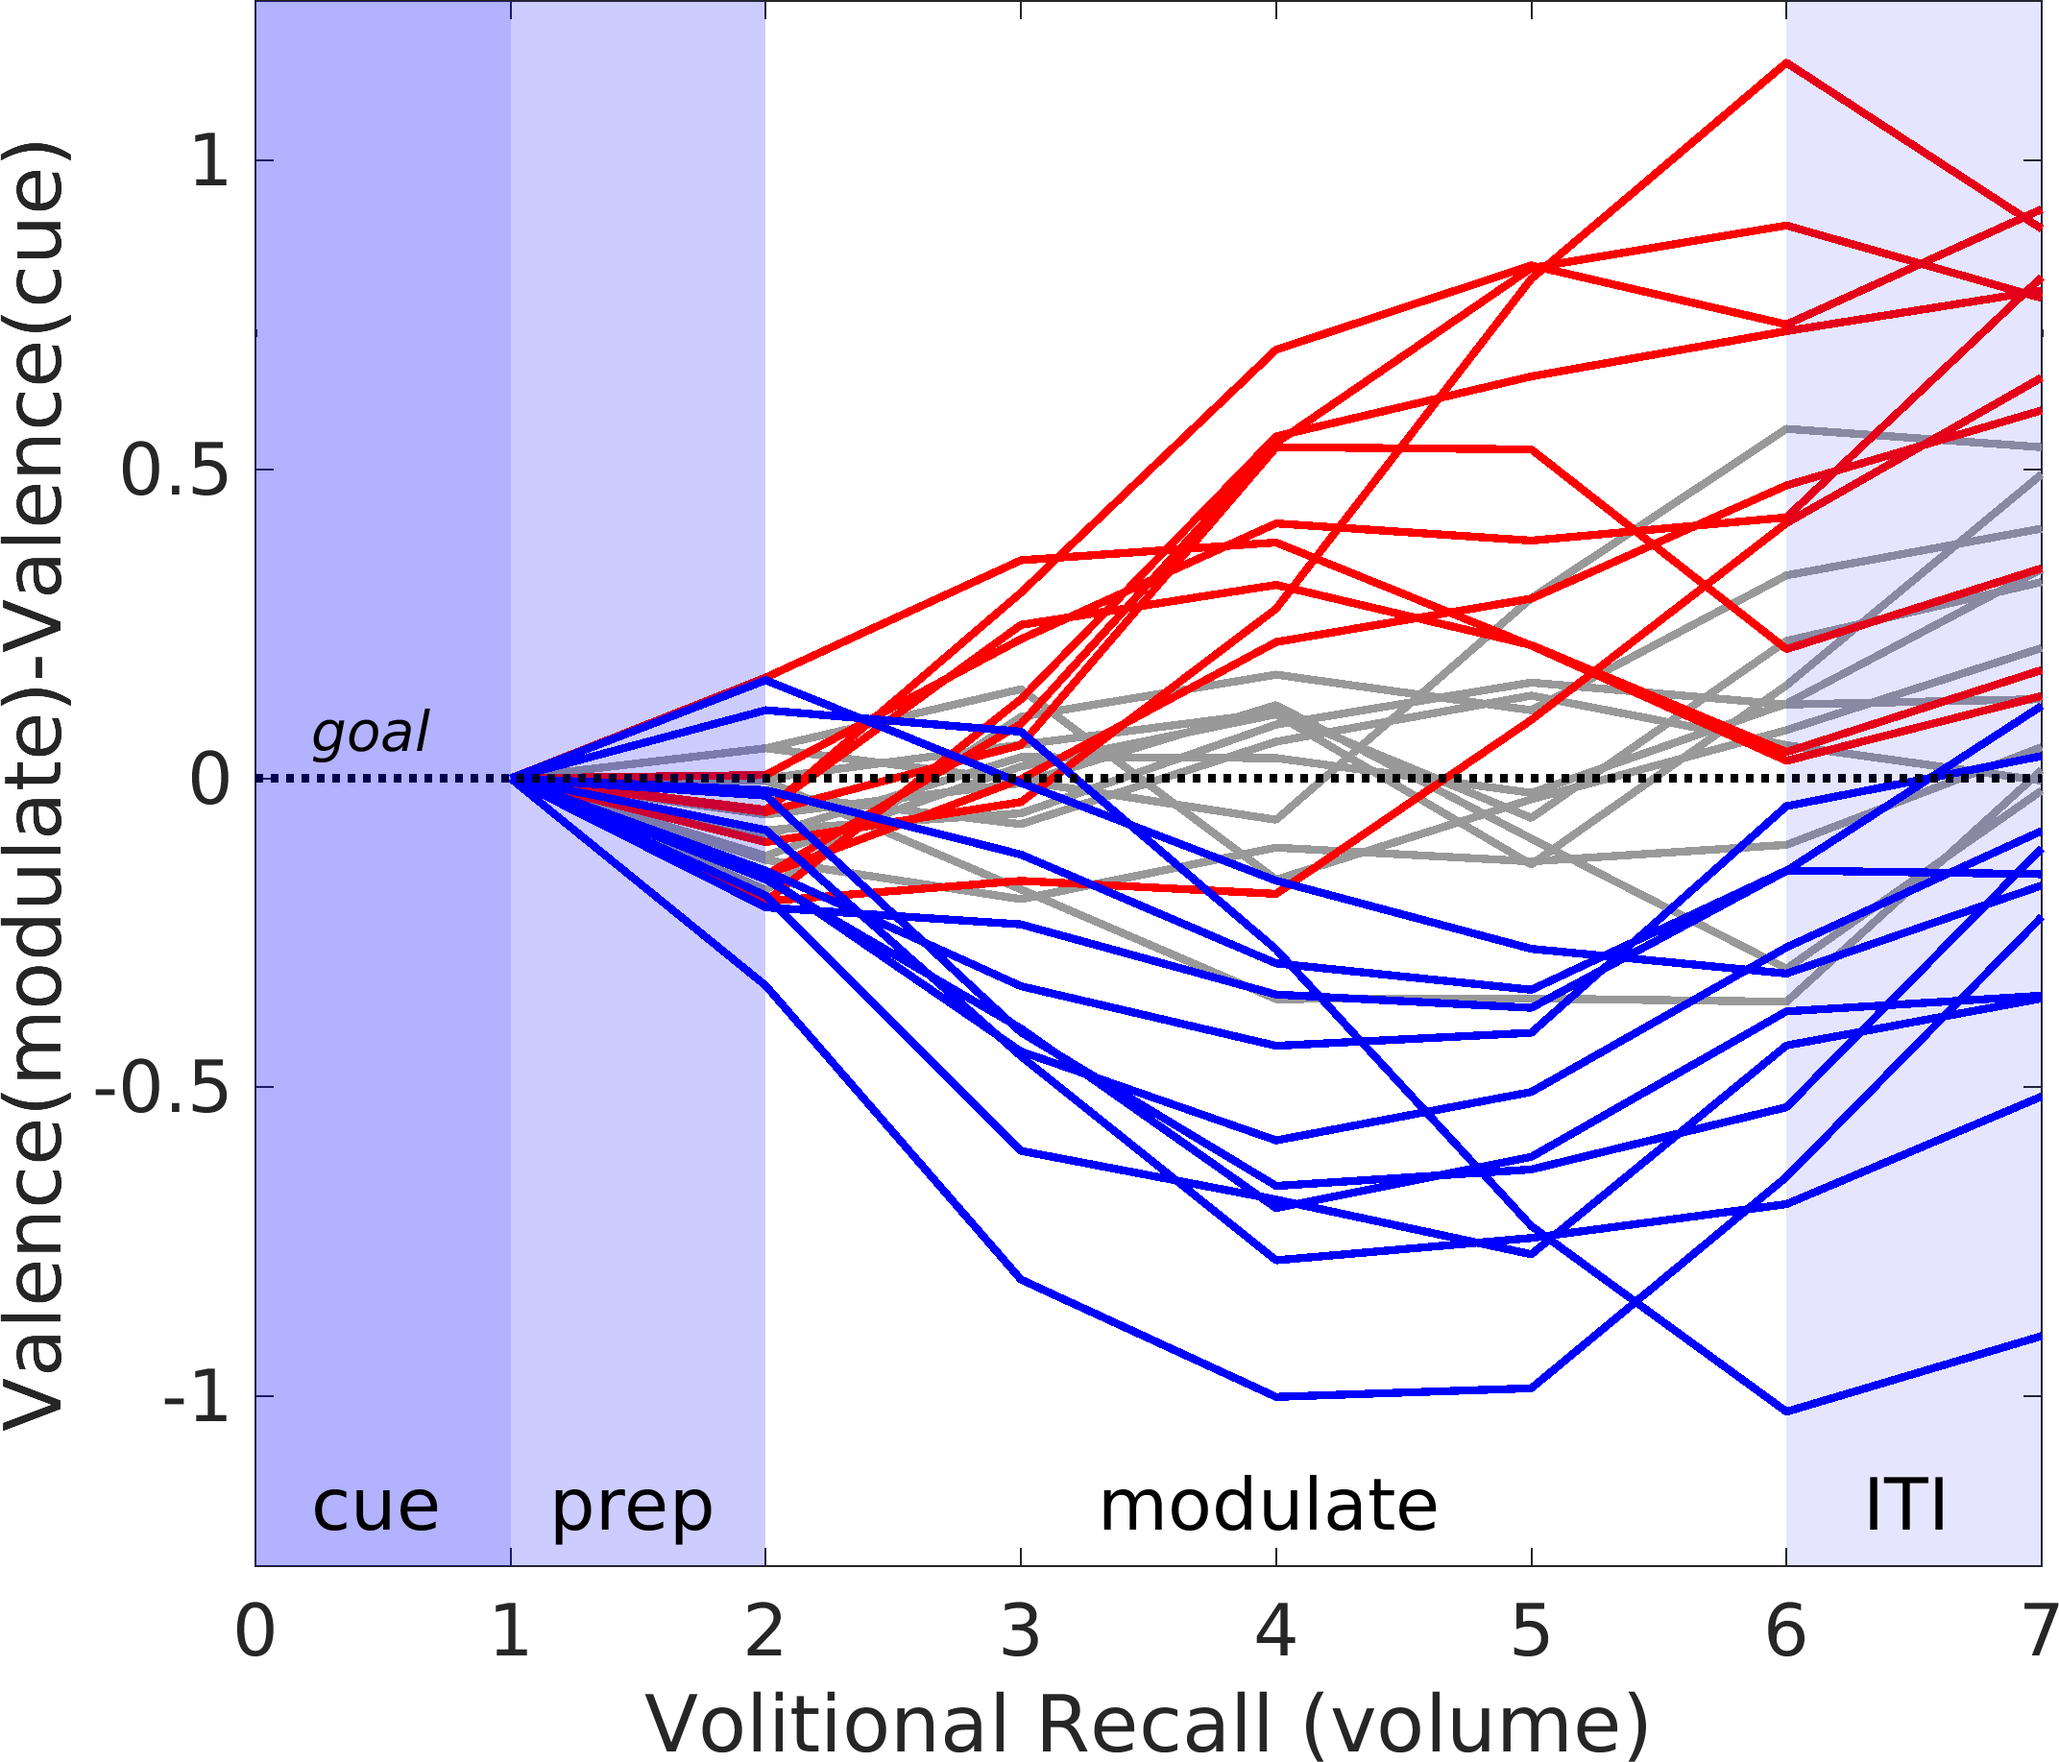
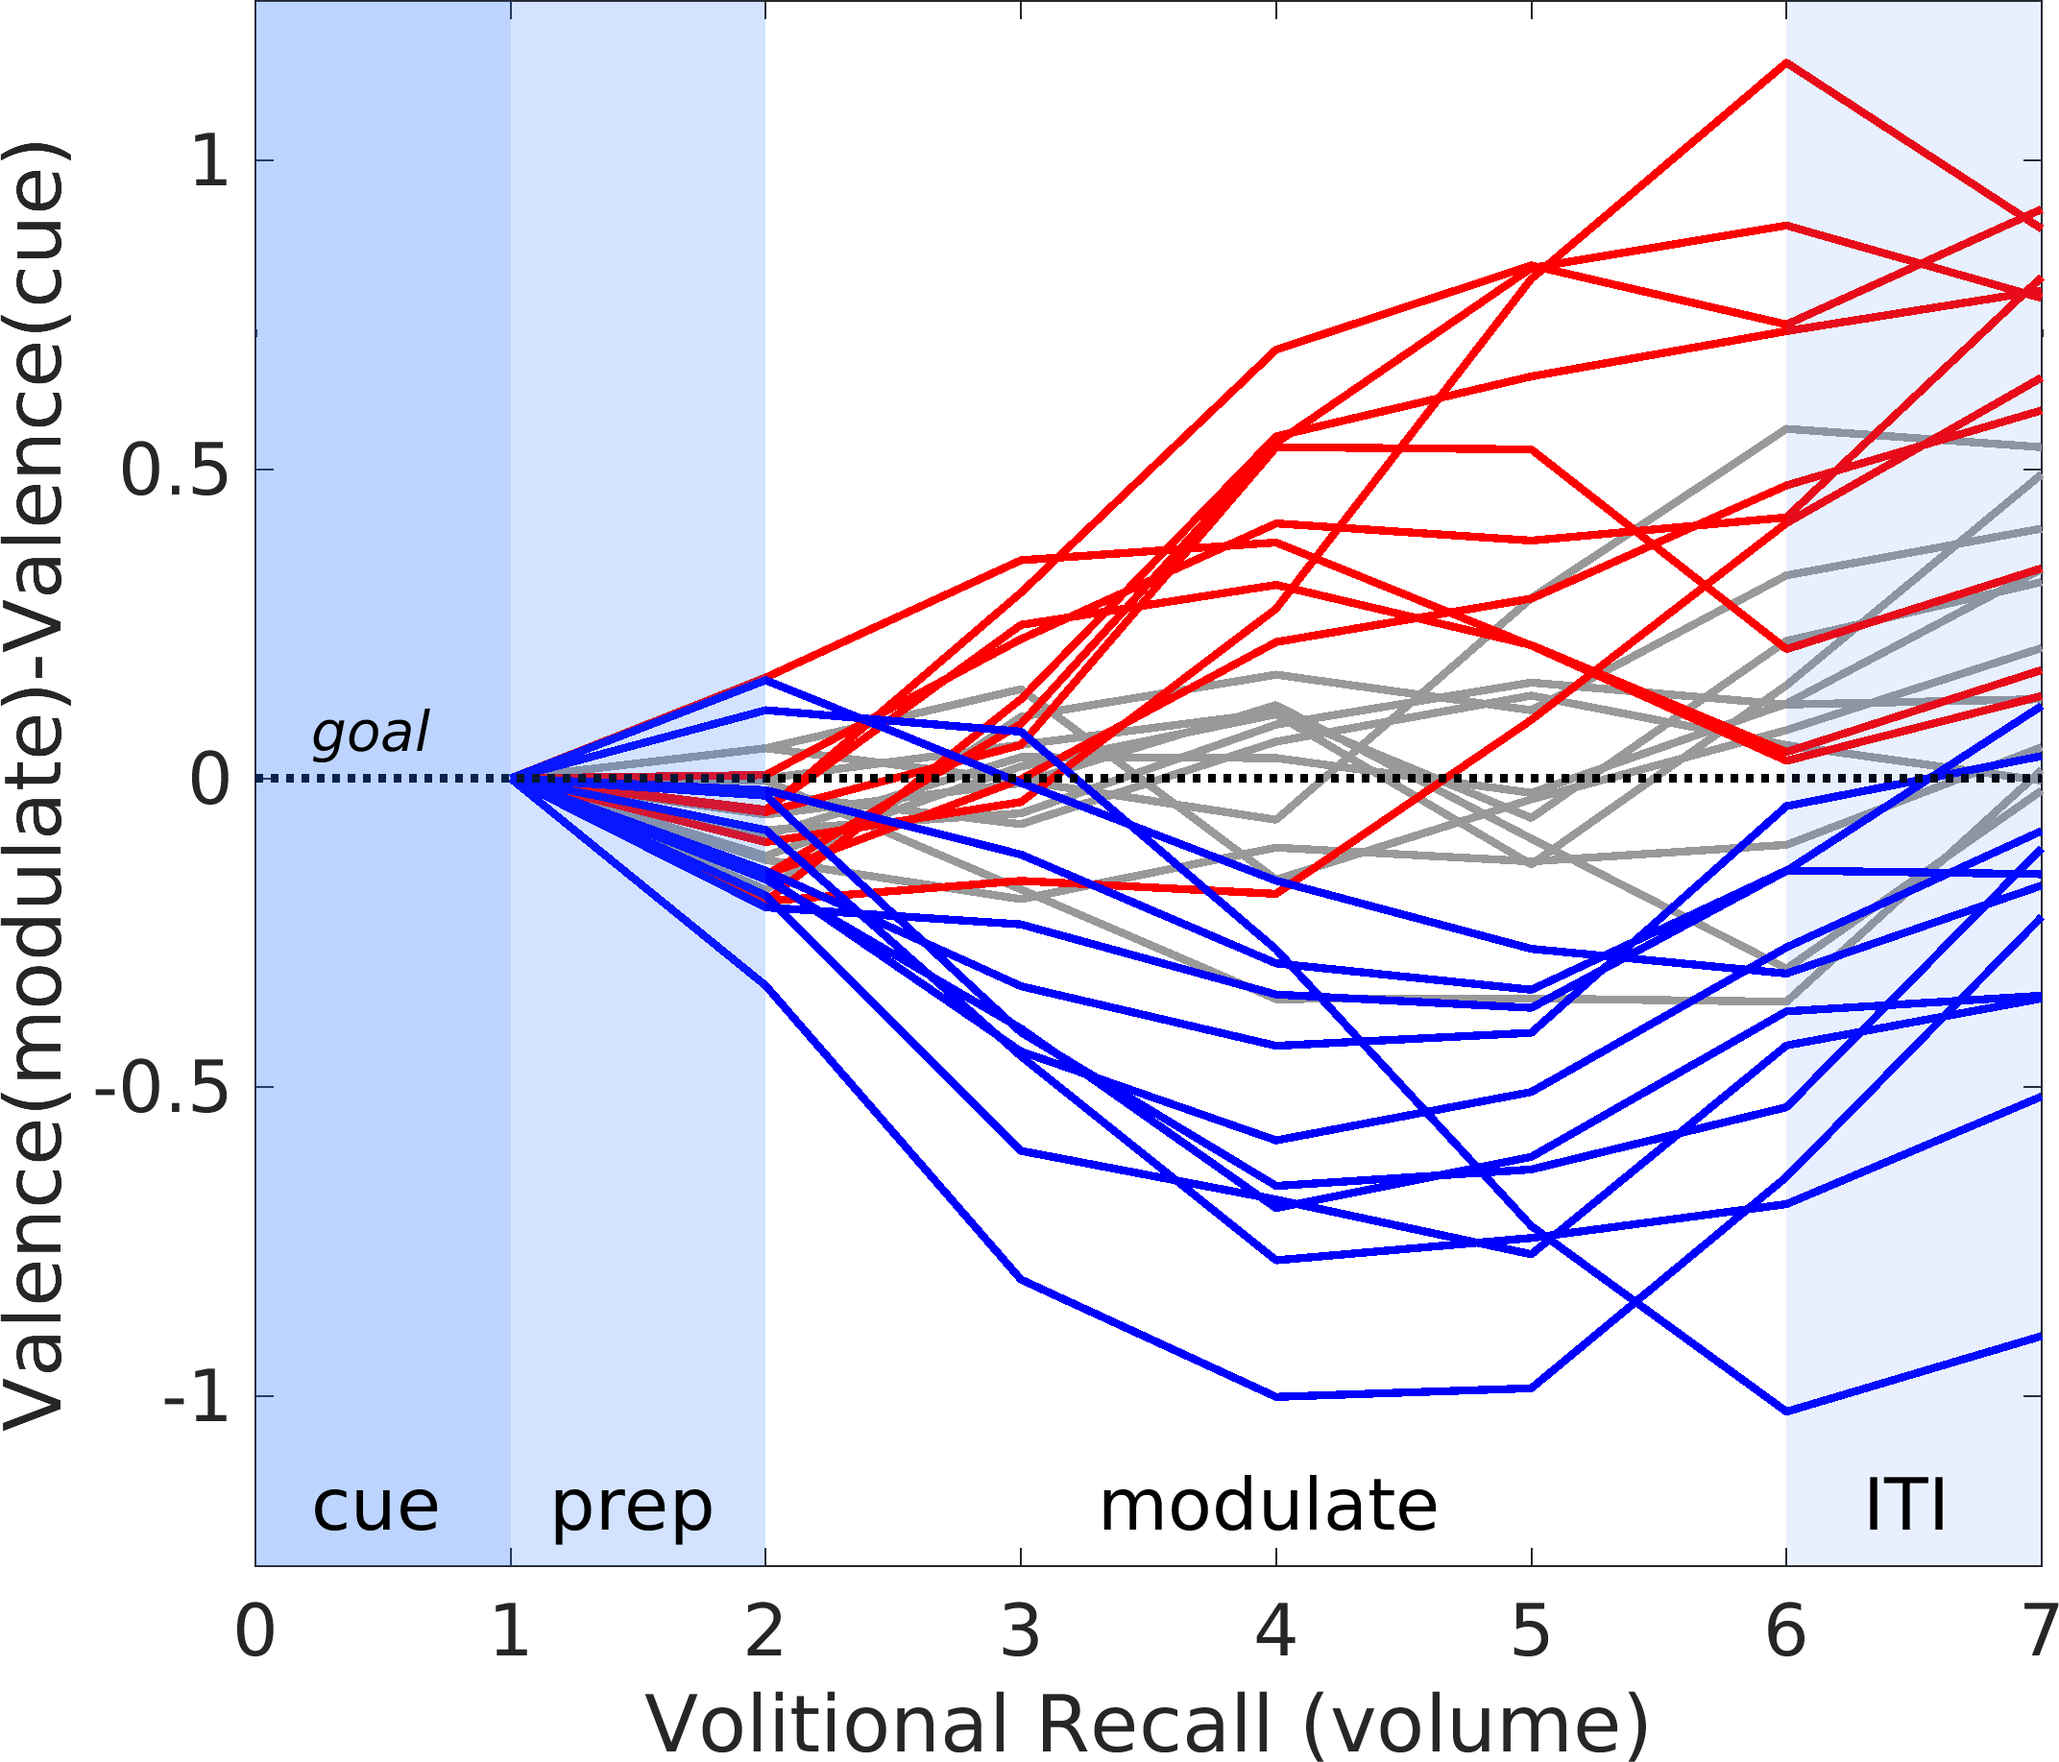
added license

Changed region(s): [[0.125, 0.0, 0.25, 0.9008]]

diff --git a/source/analysis/analyze_a_in_vr_labels.m b/source/analysis/analyze_a_in_vr_labels.m
@@ -175,15 +175,29 @@ hold on;
 hi_rng = max(max(mu_traj_a))+0.1;
 lo_rng = min(min(mu_traj_a))-0.25;
 
+% %% ----------------------------------------
+% %% fill in sections of trajectories
+% h = fill([0,1,1,0],[lo_rng,lo_rng,hi_rng,hi_rng],'b','edgecolor', ...
+%          'none');
+% set(h,'facealpha',.3);
+% h = fill([1,2,2,1],[lo_rng,lo_rng,hi_rng,hi_rng],'b','edgecolor', ...
+%          'none');
+% set(h,'facealpha',.2);
+% h = fill([6,7,7,6],[lo_rng,lo_rng,hi_rng,hi_rng],'b','edgecolor', ...
+%          'none');
+% set(h,'facealpha',.1);
+
 %% ----------------------------------------
-%% fill in sections of trajectories
-h = fill([0,1,1,0],[lo_rng,lo_rng,hi_rng,hi_rng],'b','edgecolor', ...
+%% fill in sections of trajectories ***TICKET*** changed color
+%% for CNS poster
+cspec = [0.15,0.45,1.0];
+h = fill([0,1,1,0],[lo_rng,lo_rng,hi_rng,hi_rng],cspec,'edgecolor', ...
          'none');
 set(h,'facealpha',.3);
-h = fill([1,2,2,1],[lo_rng,lo_rng,hi_rng,hi_rng],'b','edgecolor', ...
+h = fill([1,2,2,1],[lo_rng,lo_rng,hi_rng,hi_rng],cspec,'edgecolor', ...
          'none');
 set(h,'facealpha',.2);
-h = fill([6,7,7,6],[lo_rng,lo_rng,hi_rng,hi_rng],'b','edgecolor', ...
+h = fill([6,7,7,6],[lo_rng,lo_rng,hi_rng,hi_rng],cspec,'edgecolor', ...
          'none');
 set(h,'facealpha',.1);
 
@@ -196,7 +210,7 @@ fig = gcf;
 ax = fig.CurrentAxes;
 ax.FontSize = proj.param.plot.axisLabelFontSize;
 xlabel('Volitional Recall (volume)');
-ylabel('Valence(modulate)-Valence(cue)');
+ylabel('Arousal(modulate)-Arousal(cue)');
 text(0.22,lo_rng+0.1,'cue','FontSize', ...
      proj.param.plot.axisLabelFontSize);
 text(1.15,lo_rng+0.1,'prep','FontSize', ...

diff --git a/source/analysis/analyze_v_in_vr_labels.m b/source/analysis/analyze_v_in_vr_labels.m
@@ -175,17 +175,33 @@ hold on;
 hi_rng = max(max(mu_traj_v))+0.1;
 lo_rng = min(min(mu_traj_v))-0.25;
 
+% %% ----------------------------------------
+% %% fill in sections of trajectories
+% h = fill([0,1,1,0],[lo_rng,lo_rng,hi_rng,hi_rng],'b','edgecolor', ...
+%          'none');
+% set(h,'facealpha',.3);
+% h = fill([1,2,2,1],[lo_rng,lo_rng,hi_rng,hi_rng],'b','edgecolor', ...
+%          'none');
+% set(h,'facealpha',.2);
+% h = fill([6,7,7,6],[lo_rng,lo_rng,hi_rng,hi_rng],'b','edgecolor', ...
+%          'none');
+% set(h,'facealpha',.1);
+
 %% ----------------------------------------
-%% fill in sections of trajectories
-h = fill([0,1,1,0],[lo_rng,lo_rng,hi_rng,hi_rng],'b','edgecolor', ...
+%% fill in sections of trajectories ***TICKET*** changed color
+%% for CNS poster
+cspec = [0.15,0.45,1.0];
+h = fill([0,1,1,0],[lo_rng,lo_rng,hi_rng,hi_rng],cspec,'edgecolor', ...
          'none');
 set(h,'facealpha',.3);
-h = fill([1,2,2,1],[lo_rng,lo_rng,hi_rng,hi_rng],'b','edgecolor', ...
+h = fill([1,2,2,1],[lo_rng,lo_rng,hi_rng,hi_rng],cspec,'edgecolor', ...
          'none');
 set(h,'facealpha',.2);
-h = fill([6,7,7,6],[lo_rng,lo_rng,hi_rng,hi_rng],'b','edgecolor', ...
+h = fill([6,7,7,6],[lo_rng,lo_rng,hi_rng,hi_rng],cspec,'edgecolor', ...
          'none');
 set(h,'facealpha',.1);
+
+
 
 %% ----------------------------------------
 %% format figure

diff --git a/run_project.m b/run_project.m
@@ -137,12 +137,12 @@ init_project;
 % %% separately for valence and arousal, respectively. 
 % %%
 %% TICKET: Current code is clunky, repeating scripts separately for V and A.
-analyze_v_in_vr_skill;
-% analyze_v_in_vr_labels;
+% analyze_v_in_vr_skill;
+analyze_v_in_vr_labels;
 % analyze_v_in_vr_extr_subjs;
 % 
-analyze_a_in_vr_skill;
-% analyze_a_in_vr_labels;
+% analyze_a_in_vr_skill;
+analyze_a_in_vr_labels;
 % analyze_a_in_vr_extr_subjs;
 
 % summarize_vr; % -> this information combined with redcap cogbehav data

diff --git a/source/analysis/analyze_v_in_vr_skill.m b/source/analysis/analyze_v_in_vr_skill.m
@@ -229,6 +229,9 @@ ns = num2str(n_sig);
 nt = num2str(n_tot);
 ssp = num2str(100*(n_sig/n_tot));
 
+n_tot
+n_sig
+
 logger(['----------------------------------------'], ...
        proj.path.logfile);
 logger(['Statistical Summary'],proj.path.logfile);

diff --git a/source/analysis/analyze_a_in_vr_skill.m b/source/analysis/analyze_a_in_vr_skill.m
@@ -215,6 +215,10 @@ gep = num2str(FE.pValue(2));
 % single subject results
 n_sig = numel(sig_subjs);
 n_tot = numel(sig_subjs)+numel(non_subjs);
+
+n_tot
+n_sig
+
 ns = num2str(n_sig);
 nt = num2str(n_tot);
 ssp = num2str(100*(n_sig/n_tot));
